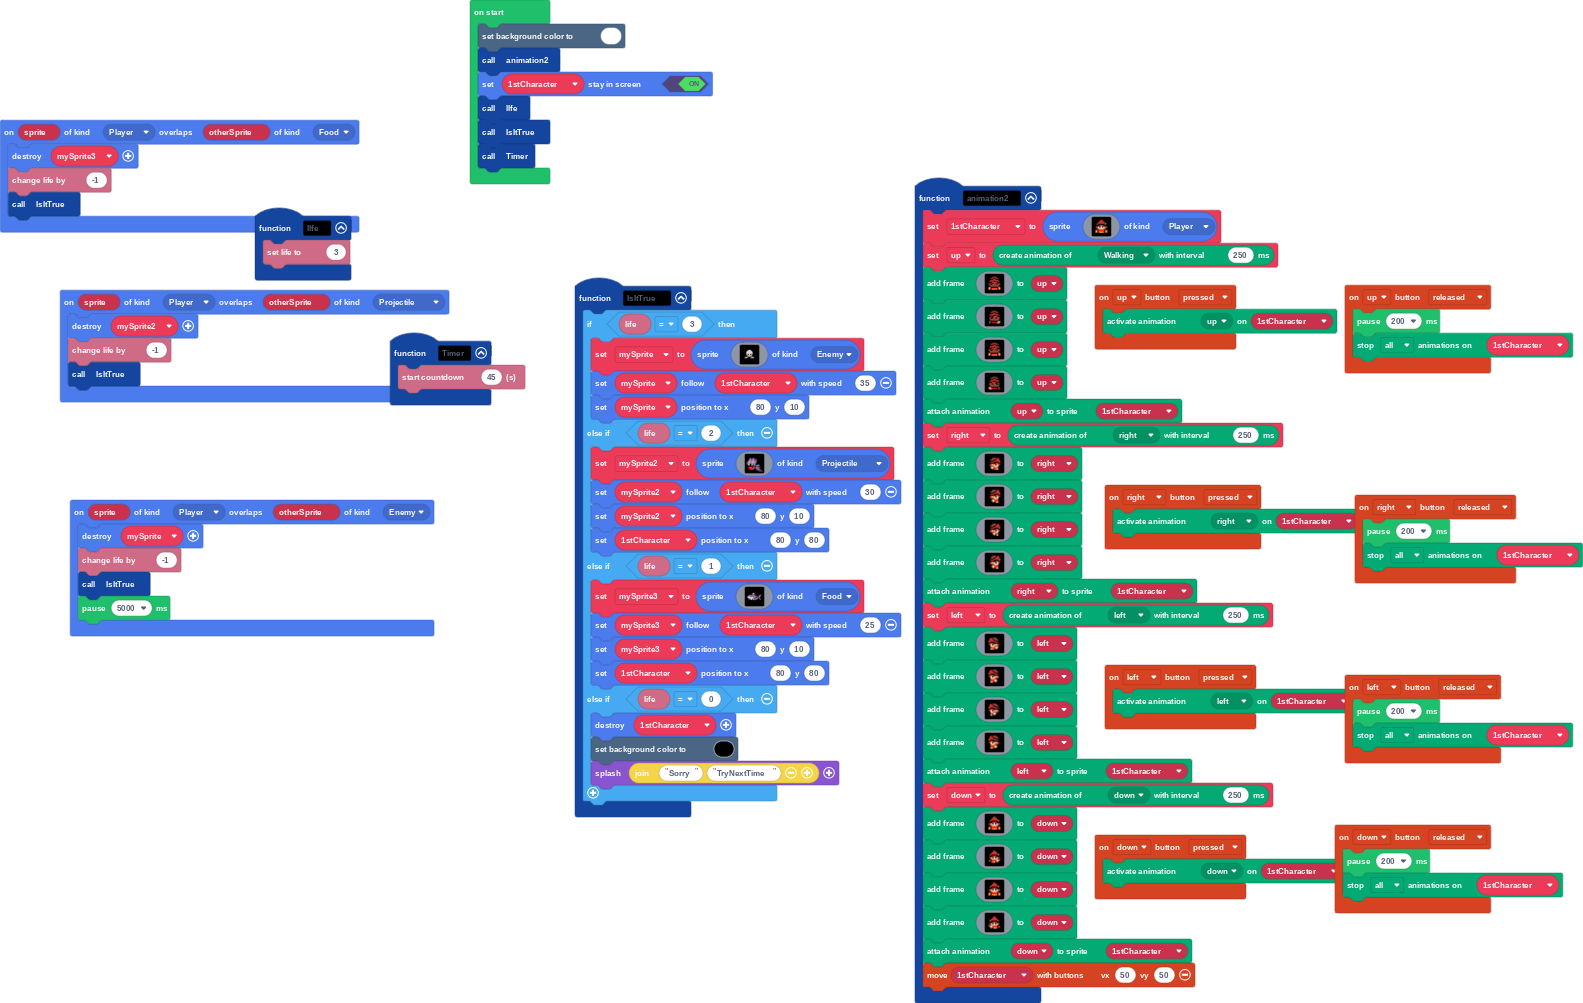
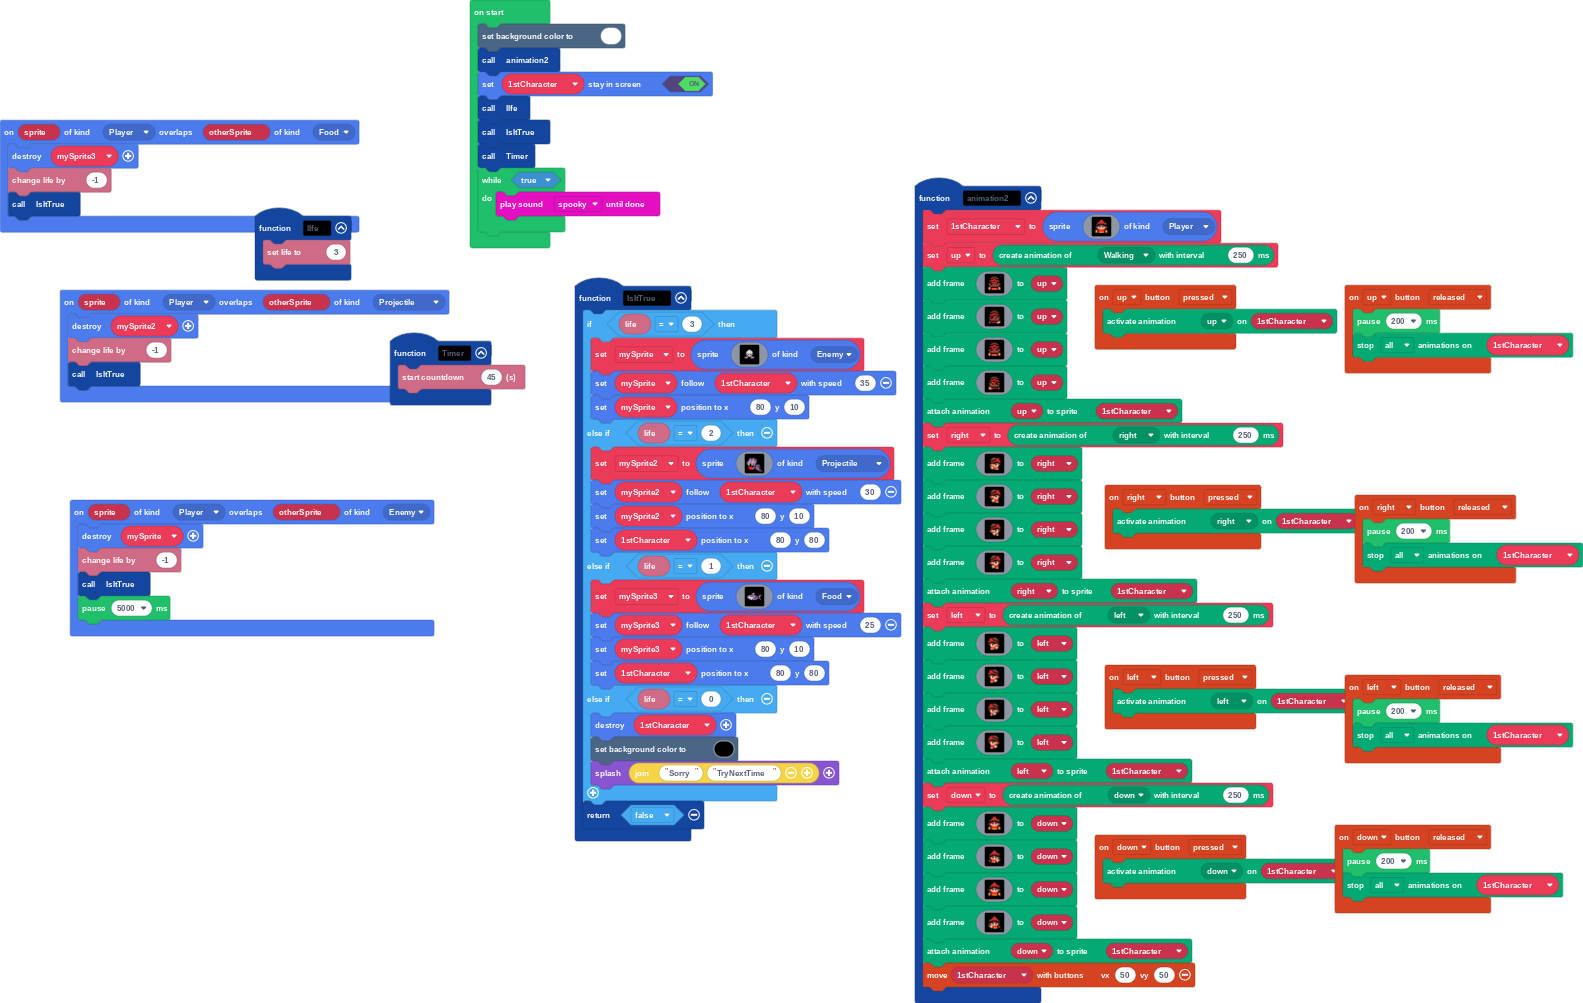
Update main.blocks, main.ts

Changed region(s): [[0.2786, 0.1545, 0.4334, 0.2473], [0.3405, 0.8036, 0.4643, 0.8654]]

diff --git a/main.ts b/main.ts
@@ -424,6 +424,7 @@ function IsItTrue () {
         scene.setBackgroundColor(15)
         game.splash("Sorry" + "TryNextTime")
     }
+    return false
 }
 controller.right.onEvent(ControllerButtonEvent.Pressed, function () {
     animation.setAction(_1stCharacter, ActionKind.right)
@@ -468,3 +469,6 @@ _1stCharacter.setStayInScreen(true)
 lIfe()
 IsItTrue()
 Timer()
+while (true) {
+    music.spooky.playUntilDone()
+}
